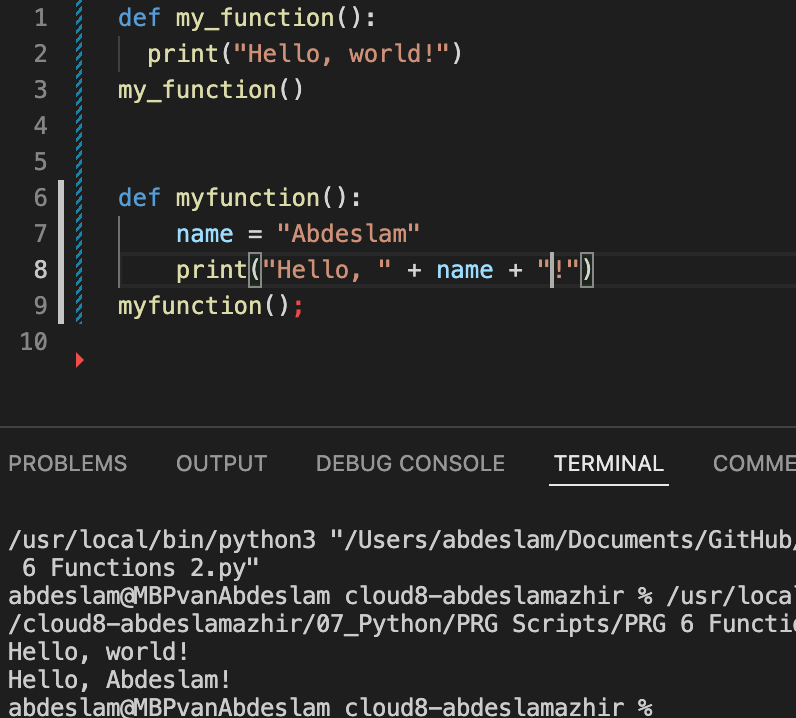
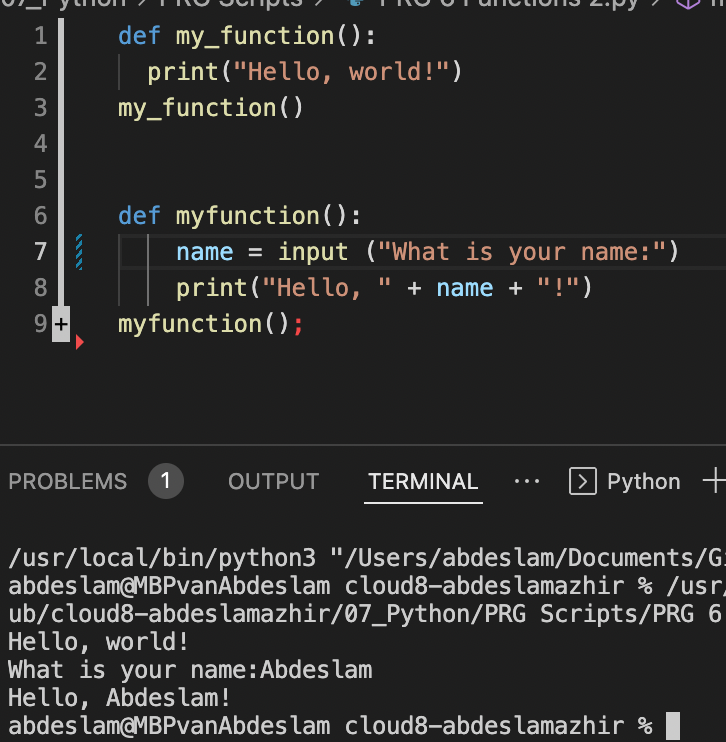
a

diff --git a/07_Python/PRG Scripts/PRG 6 Functions 2.py b/07_Python/PRG Scripts/PRG 6 Functions 2.py
@@ -4,6 +4,6 @@ my_function()
 
 
 def myfunction():
-    name = "Abdeslam"
+    name = input ("What is your name:")
     print("Hello, " + name + "!")
 myfunction();

diff --git a/07_Python/PRG Scripts/PRG 6 Functions 3.py b/07_Python/PRG Scripts/PRG 6 Functions 3.py
@@ -1,0 +1,8 @@
+def avg():
+    # write your code here
+ 
+x = 128
+y = 255
+z = avg(x,y) / 2
+print ("The average of",x,"and", y, "is", z)
+

diff --git a/07_Python/PRG 6 Functions.md b/07_Python/PRG 6 Functions.md
@@ -45,7 +45,21 @@ Besides the built-in functions, you can also write custom functions, or import f
 ![screenshot](../00_includes/python/62.png)
 
 
-## Exercise 
+## Exercise 3
+
+- Create a new script.
+- Copy the code below into your script.
+
+        def avg():
+        # write your code here
+ 
+        x = 128
+        y = 255
+        z = avg(x,y)
+        print ("The average of",x,"and", y, "is", z)
+- Write the custom function avg() so that it returns the average of the given parameters.
+
+
 
 
 
